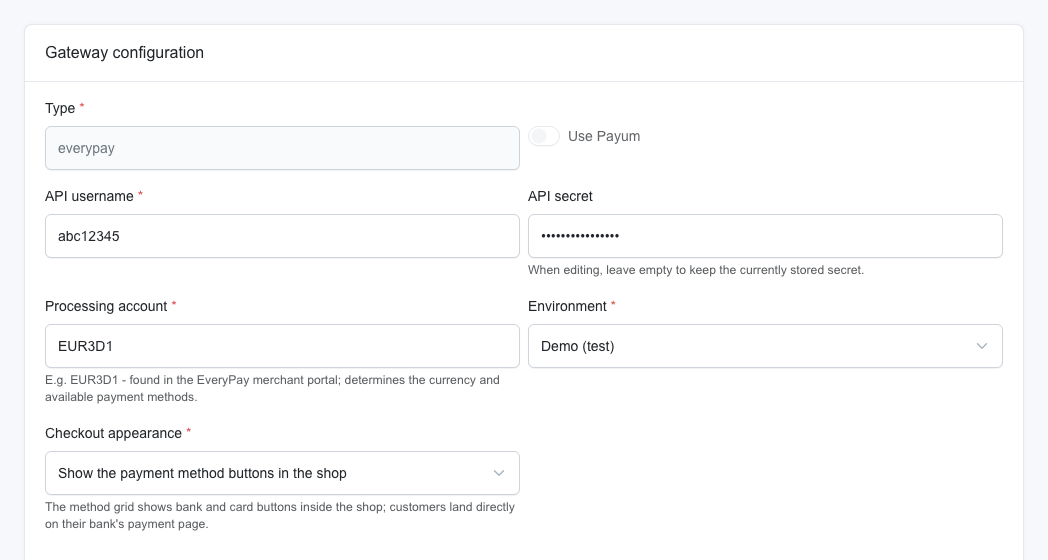
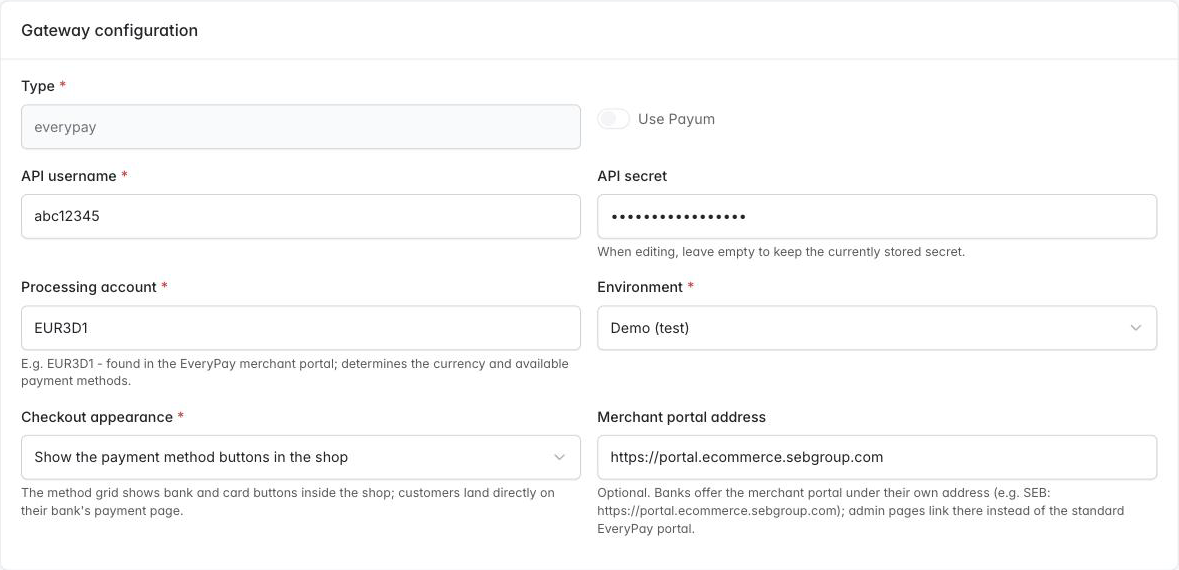
Release v0.5.0
The gateway configuration screenshot now shows the merchant portal
address field.

diff --git a/CHANGELOG.md b/CHANGELOG.md
@@ -7,6 +7,8 @@ and this project adheres to [Semantic Versioning](https://semver.org/spec/v2.0.0
 
 ## [Unreleased]
 
+## [0.5.0] - 2026-08-04
+
 ### Added
 
 - Optional "Merchant portal address" field on the gateway configuration:
@@ -173,7 +175,8 @@ end-to-end against the EveryPay/SEB demo environment.
 
 > v0.1.0 was retracted minutes after publishing (identical functionality).
 
-[Unreleased]: https://github.com/pkglt/sylius-everypay-plugin/compare/v0.4.0...HEAD
+[Unreleased]: https://github.com/pkglt/sylius-everypay-plugin/compare/v0.5.0...HEAD
+[0.5.0]: https://github.com/pkglt/sylius-everypay-plugin/compare/v0.4.0...v0.5.0
 [0.4.0]: https://github.com/pkglt/sylius-everypay-plugin/compare/v0.3.1...v0.4.0
 [0.3.1]: https://github.com/pkglt/sylius-everypay-plugin/compare/v0.3.0...v0.3.1
 [0.3.0]: https://github.com/pkglt/sylius-everypay-plugin/compare/v0.2.2...v0.3.0
